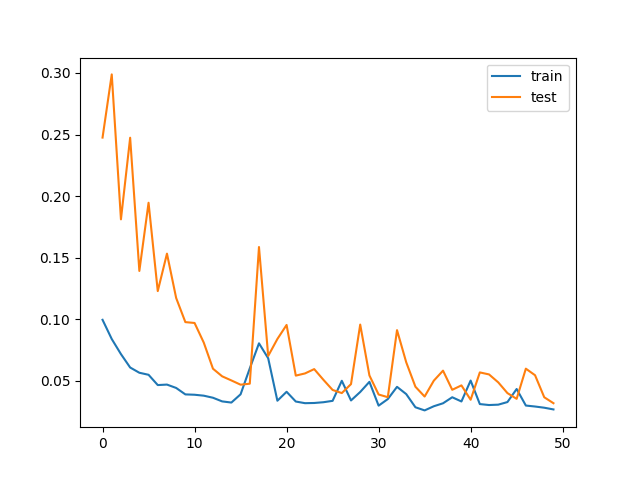
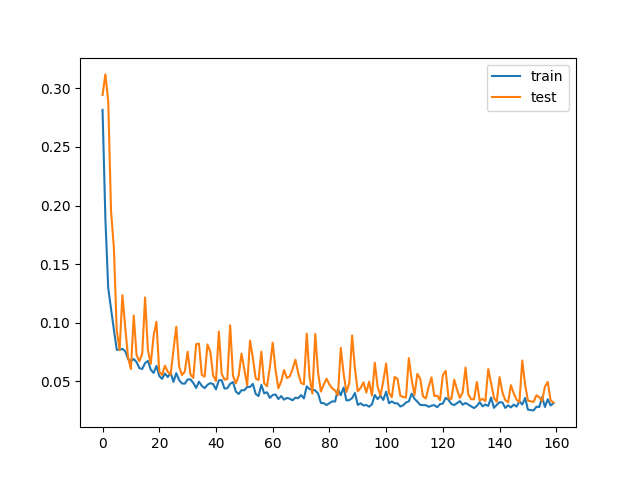
supervised_LSTML model done -> RMSE: 1040

diff --git a/Model/Multivariate_supervised_LSTM.py b/Model/Multivariate_supervised_LSTM.py
@@ -9,10 +9,9 @@ from pandas import read_csv
 from pandas import DataFrame
 from pandas import concat
 from sklearn.preprocessing import MinMaxScaler
-from sklearn.preprocessing import LabelEncoder
 from sklearn.metrics import mean_squared_error
 from keras.models import Sequential
-from keras.layers import Dense
+from keras.layers import Dense, Dropout, BatchNormalization
 from keras.layers import LSTM
 from keras.models import load_model
 
@@ -63,16 +62,18 @@ print(reframed.columns)
 
 # split into train and test
 values = reframed.values
-n_train_rows = int(values.shape[0] * 0.7)
+n_train_rows = int(values.shape[0] * 0.8)
 train = values[:n_train_rows, :]
 test = values[n_train_rows:, :]
 
 # split into input and outputs
 n_obs = n_days * n_features
-train_X, train_y = train[:, :n_obs], train[:, -4]
+train_X, train_y = train[:, :n_obs], train[:, -4:]
+print("trains", train_X.shape, train_y.shape)
 # print(train_X.shape)
 # print(train_y.shape)
-test_X, test_y = test[:, :n_obs], test[:, -4]
+test_X, test_y = test[:, :n_obs], test[:, -4:]
+print("tests", test_X.shape, test_y.shape)
 # print(test_X.shape)
 # print(test_y.shape)
 
@@ -82,72 +83,84 @@ test_X = test_X.reshape((test_X.shape[0], n_days, n_features))
 print(train_X.shape, train_y.shape, test_X.shape, test_y.shape)
 
 
-# design network
-model = Sequential()
-model.add(LSTM(50, input_shape=(train_X.shape[1], train_X.shape[2])))
-model.add(Dense(4))
-model.compile(loss='mae', optimizer='adam')
+def model():
+    model = Sequential()
+    # model.add(LSTM(50, return_sequences=True, input_shape=(train_X.shape[1], train_X.shape[2])))
+    model.add(LSTM(50, input_shape=(train_X.shape[1], train_X.shape[2])))
+    model.add(Dropout(0.1))
+    # model.add(BatchNormalization())
+    # model.add(LSTM(50, return_sequences=True))
+    # model.add(Dropout(0.1))
+    # model.add(BatchNormalization())
+
+    # model.add(LSTM(50))
+    # model.add(Dropout(0.1))
+    # model.add(BatchNormalization())
+
+    model.add(Dense(16))
+    # model.add(BatchNormalization())
+    model.add(Dense(4))
+
+    model.compile(loss='mae', optimizer='adam')
+    model.summary()
+
+    return model
+
+
+my_model = model()
+
 # fit network
-history = model.fit(train_X, train_y, epochs=50, batch_size=72, validation_data=(test_X, test_y), verbose=2,
-                    shuffle=False)
+history = my_model.fit(train_X, train_y, epochs=160, batch_size=64, validation_data=(test_X, test_y), verbose=2,
+                       shuffle=False)
 
+# Path handling for model checkpoint files
+dirname = "model_checkpoints"
+root_dir = os.path.dirname(__file__)
+checkpoints_dir_path = os.path.join(root_dir, dirname)
+Path(checkpoints_dir_path).mkdir(parents=True, exist_ok=True)
 
-model.save("multivariate_LSTM_50units_1layer")
+my_model.save("./model_checkpoints/multivariate_supervised_LSTM")
 
-# plot history
+# Path handling for plots
 dirname = "005930" + '_plots'
 root_dir = os.path.dirname(__file__)
 plots_dir_path = os.path.join(root_dir, dirname)
 Path(plots_dir_path).mkdir(parents=True, exist_ok=True)
 
+# plot history
 plt.plot(history.history['loss'], label='train')
 plt.plot(history.history['val_loss'], label='test')
 plt.legend()
 plt.savefig(os.path.join(plots_dir_path, "train_history.png"))
 
 # load model for constant debugging without training again and again
-reloaded_model = load_model("multivariate_LSTM_50units_1layer")
+reloaded_model = load_model("./model_checkpoints/multivariate_supervised_LSTM")
 # Let's check
 # np.testing.assert_allclose(model.predict(test_X), reloaded_model.predict(test_X))
 
 # make a prediction
 yhat = reloaded_model.predict(test_X)
-print(yhat)
-print(yhat.shape)
-print(test_X.shape)
 test_X = test_X.reshape((test_X.shape[0], n_days * n_features))
-print(test_X)
-print(test_X.shape)
-print("=====")
+
 # invert scaling for forecast
-inv_yhat = concatenate((yhat, test_X), axis=1)
-print(inv_yhat)
-print(inv_yhat.shape)
+inv_yhat = concatenate((yhat, test_X[:, -15:]), axis=1)
 
-for i in range(172):
-    if inv_yhat[0][0] == inv_yhat[0][i]:
-        print(i)
-        print("hi")
-
-# inv_yhat = scaler.inverse_transform(inv_yhat)
-# inv_yhat = inv_yhat[:, 0]
-
-"""
-
-# make a prediction
-yhat = model.predict(test_X)
-test_X = test_X.reshape((test_X.shape[0], n_hours * n_features))
-# invert scaling for forecast
-inv_yhat = concatenate((yhat, test_X[:, -7:]), axis=1)
 inv_yhat = scaler.inverse_transform(inv_yhat)
-inv_yhat = inv_yhat[:, 0]
+inv_yhat = inv_yhat[:, :4]
+print("inverse yhat: \n", inv_yhat)
+print("inverse yhat shape: ", inv_yhat.shape)
+
 # invert scaling for actual
-test_y = test_y.reshape((len(test_y), 1))
-inv_y = concatenate((test_y, test_X[:, -7:]), axis=1)
+test_y = test_y.reshape((len(test_y), 4))
+inv_y = concatenate((test_y, test_X[:, -15:]), axis=1)
 inv_y = scaler.inverse_transform(inv_y)
-inv_y = inv_y[:, 0]
+inv_y = inv_y[:, 0:4]
+print("inverse y:\n", inv_y)
+print("inverse y shape: ", inv_y.shape)
+
 # calculate RMSE
 rmse = sqrt(mean_squared_error(inv_y, inv_yhat))
 print('Test RMSE: %.3f' % rmse)
-"""
+
+
 
